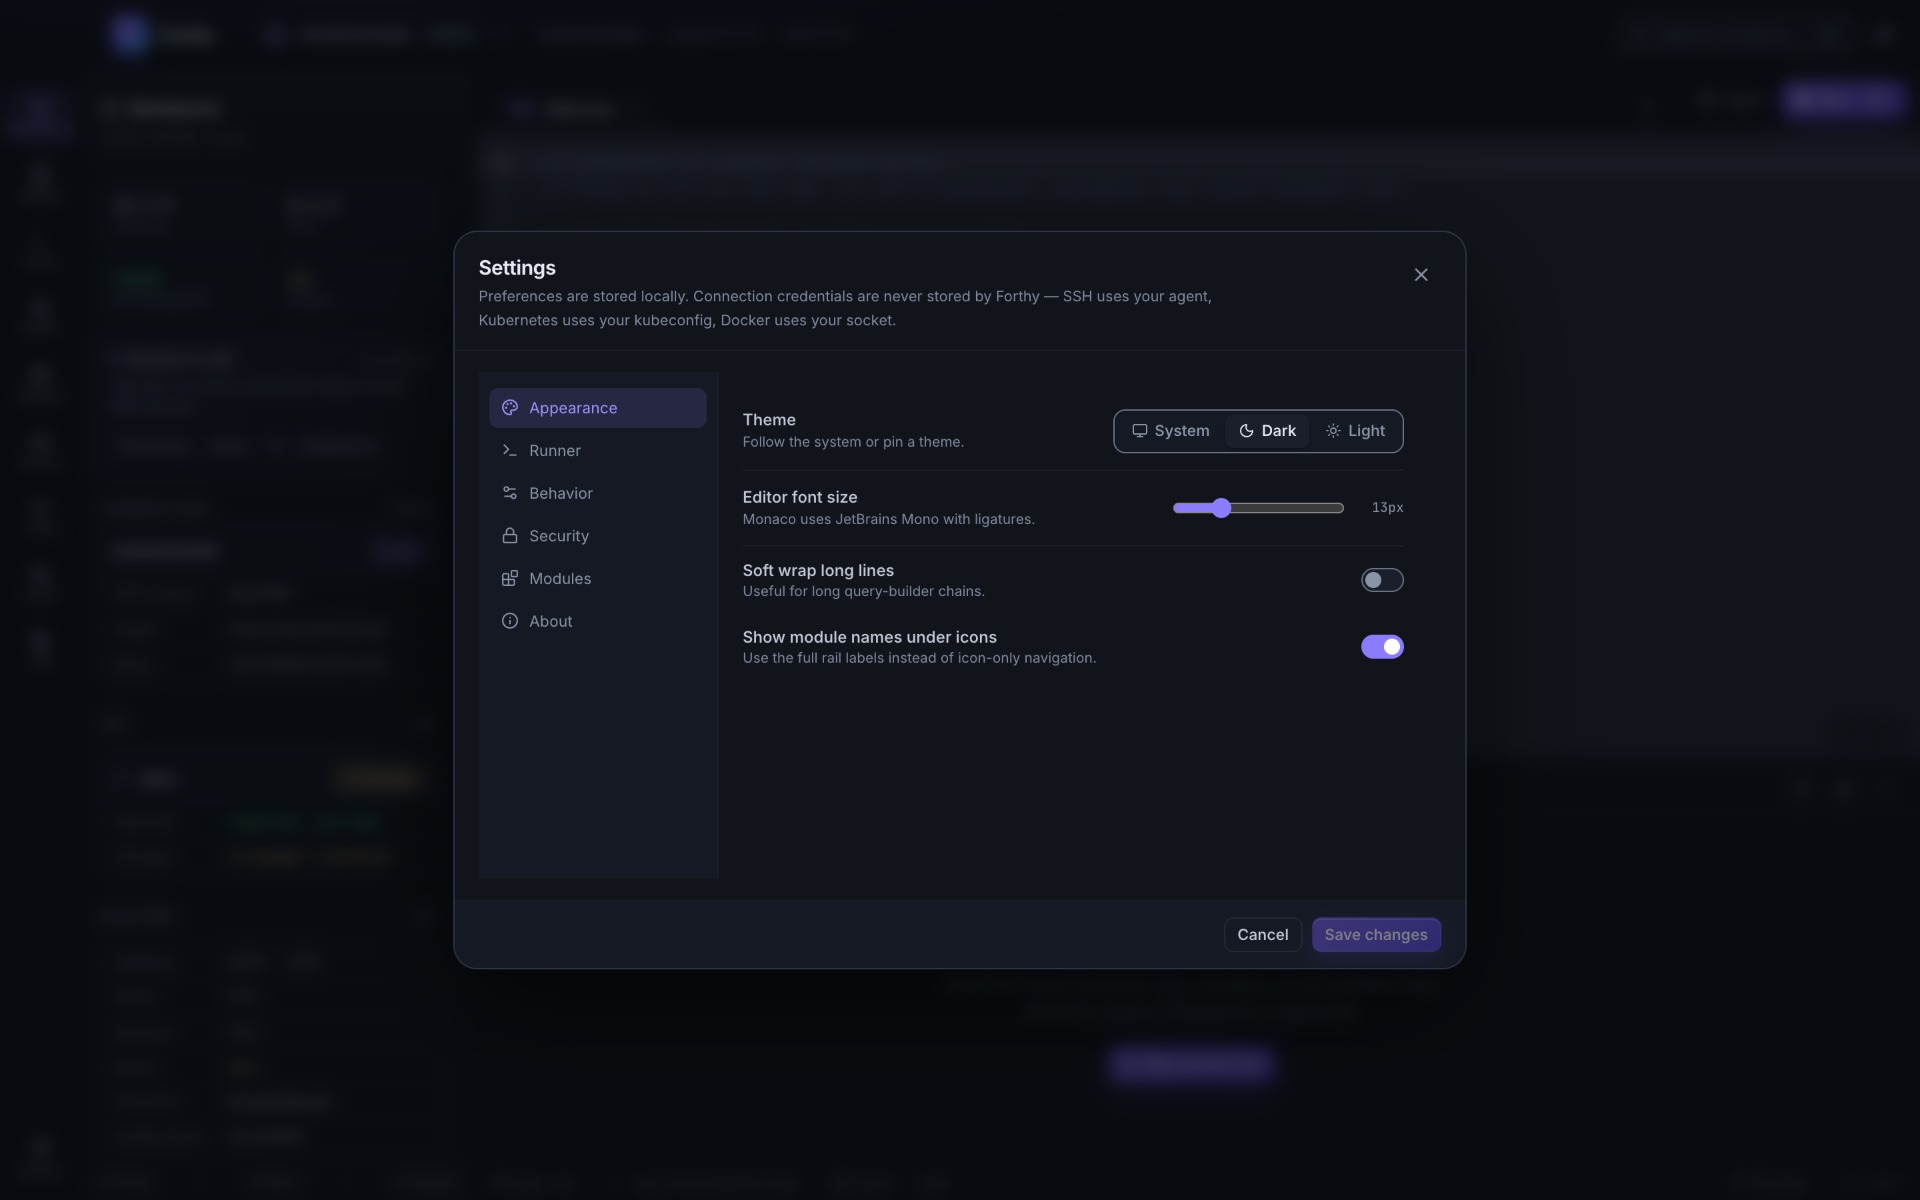
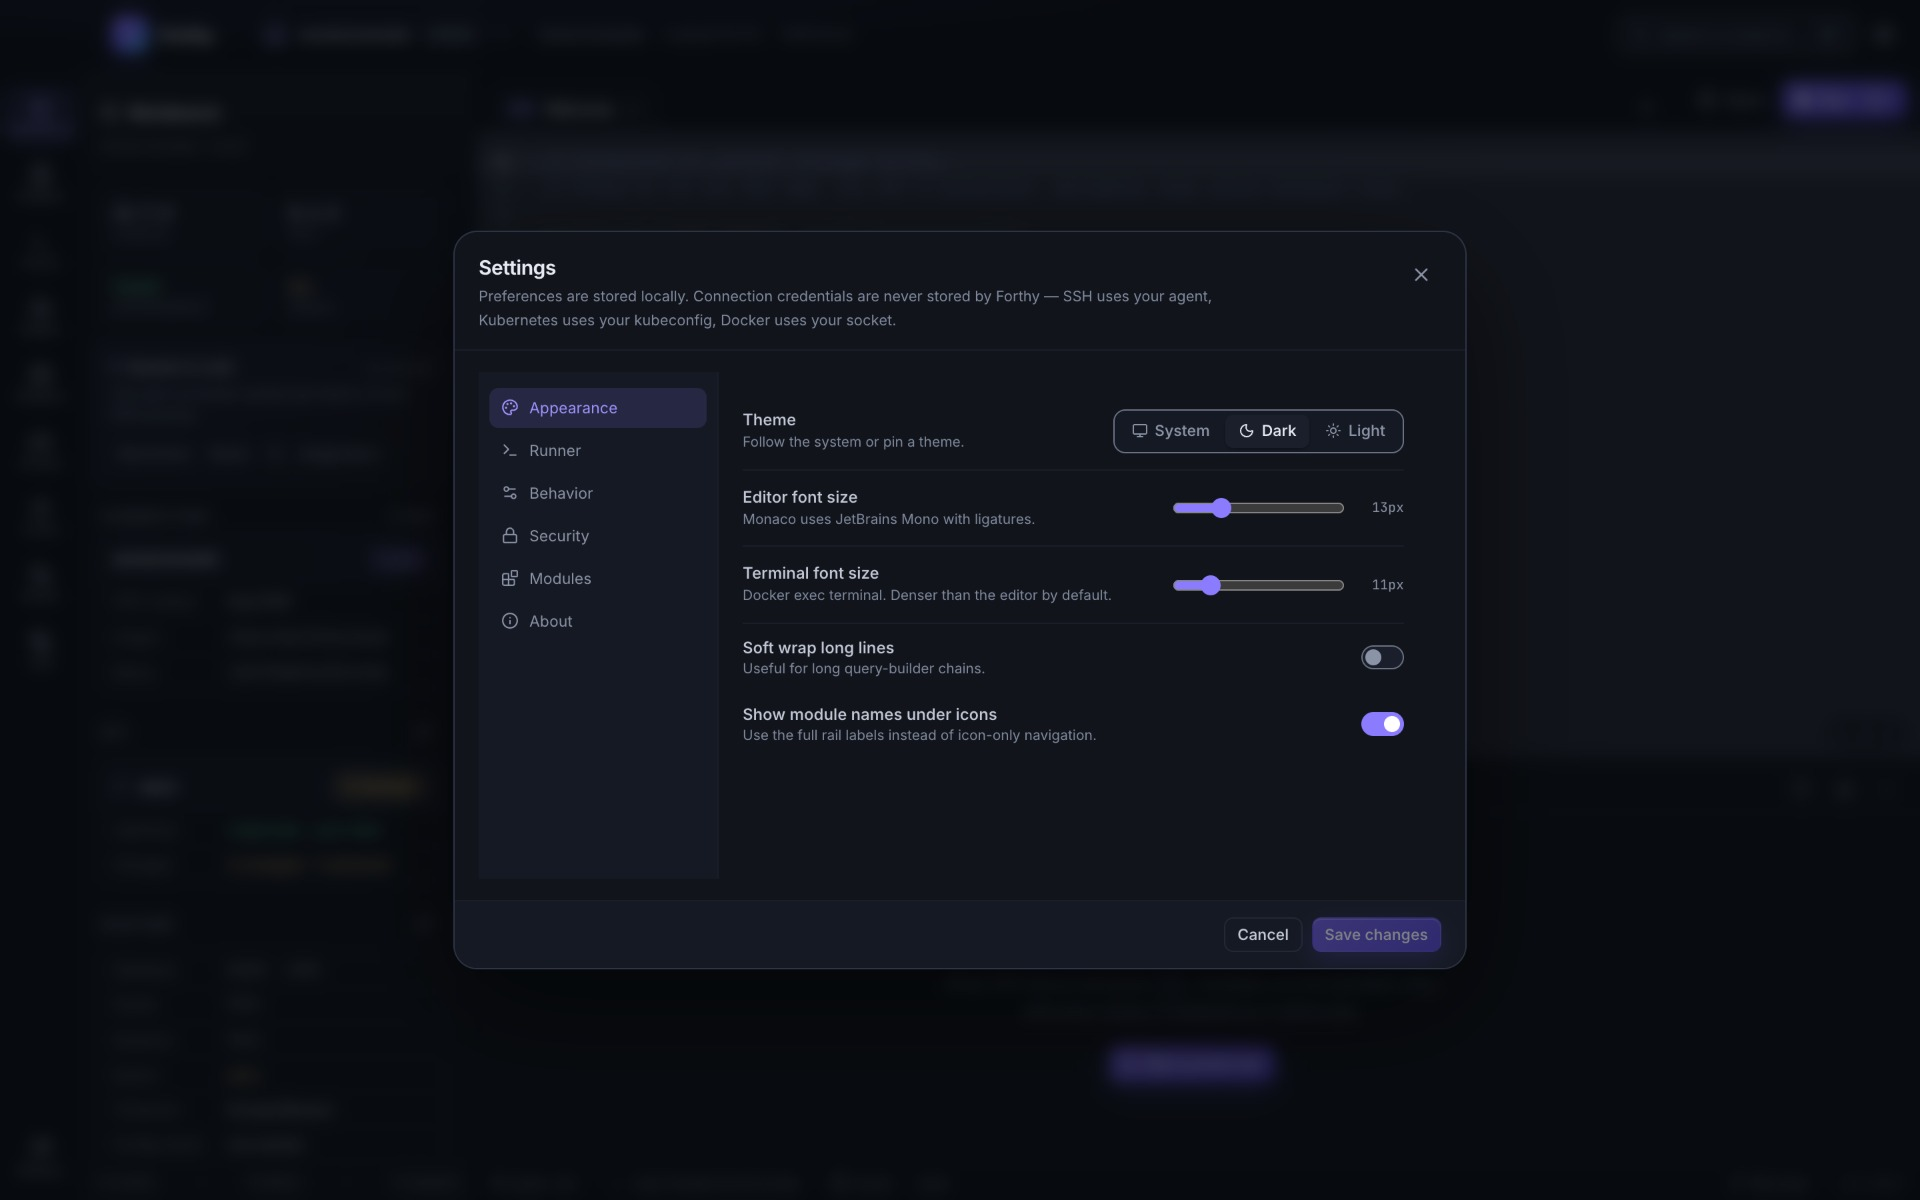
docs: release 0.14.1
Docker container dropdown in the Local and SSH dialogs, reliable custom log path removal, terminal font size setting and a denser default; refresh the settings screenshot and the site version.

diff --git a/site/index.html b/site/index.html
@@ -14,7 +14,7 @@
 
     <link rel="icon" href="favicon.svg" type="image/svg+xml" />
     <link rel="apple-touch-icon" href="apple-touch-icon.png" />
-    <link rel="stylesheet" href="styles.css?v=0.14.0" />
+    <link rel="stylesheet" href="styles.css?v=0.14.1" />
 
     <meta property="og:type" content="website" />
     <meta property="og:site_name" content="Forthy" />
@@ -36,7 +36,7 @@
     />
     <meta name="twitter:image" content="https://stealthpro.github.io/forthy-app/og.jpg" />
 
-    <script src="site.js?v=0.14.0" defer></script>
+    <script src="site.js?v=0.14.1" defer></script>
   </head>
   <body>
     <a class="skip-link" href="#main">Skip to content</a>
@@ -110,7 +110,7 @@
                 href="https://github.com/stealthpro/forthy-app/releases/latest/download/Forthy-macos-aarch64.zip"
               >
                 Download for macOS
-                <span class="button-note">v<span data-version>0.14.0</span> · arm64</span>
+                <span class="button-note">v<span data-version>0.14.1</span> · arm64</span>
               </a>
               <a class="button button-ghost" href="https://github.com/stealthpro/forthy-app">
                 View on GitHub
@@ -513,7 +513,7 @@
               href="https://github.com/stealthpro/forthy-app/releases/latest/download/Forthy-macos-aarch64.zip"
             >
               Download Forthy
-              <span class="button-note">v<span data-version>0.14.0</span> · Apple Silicon</span>
+              <span class="button-note">v<span data-version>0.14.1</span> · Apple Silicon</span>
             </a>
             <p class="fine-print">
               <a href="https://github.com/stealthpro/forthy-app/releases">All releases</a> ·

diff --git a/README.md b/README.md
@@ -71,18 +71,22 @@ shasum -a 256 -c Forthy-macos-aarch64.zip.sha256
 - **Any target** — local PHP, Docker, SSH (key or password) and Kubernetes pods,
   with contexts, namespaces, pods and containers picked from the cluster's own
   lists; a pod that a rollout replaced is offered again instead of leaving the
-  connection broken.
+  connection broken. The Docker container for a Local or SSH connection is picked
+  from a dropdown fed by that target's own `docker ps -a`, and stays typeable when
+  the daemon cannot be reached.
 - **Docker containers** — when the project runs inside a container (a Docker connection,
   or SSH with a container), a Docker module lists that runtime's containers with ports,
   status and Compose labels. A read-only info modal shows image, command, mounts, working
   directory and lifetime; **Logs** opens a follower tab; **Exec** opens a real interactive
   shell in a tab (`docker exec -it` through a PTY, so Ctrl+C, colours, `less`, arrow-key
   history and typing in any keyboard layout work), and open tabs stay alive while you
-  switch around.
+  switch around. The shell starts at a compact 11 px with tight line spacing, and
+  **Settings → Appearance → Terminal font size** resizes it live.
 - **Locks** — optionally ask macOS to authenticate with Touch ID or the Mac account
   password before the app opens or before a chosen project does. Locked connections stay
   marked, and Forthy stores only a flag — never a password.
-- **Themes** — dark, light or follow the system.
+- **Themes** — dark, light or follow the system; editor and terminal font sizes are
+  adjustable in Appearance.
 - **Updates** — checks the public release feed once an hour, then downloads and installs
   a new version only after you confirm it. Every archive is signature-checked first, and
   **Check for Updates…** in the application menu runs the same check on demand. The restart

diff --git a/CHANGELOG.md b/CHANGELOG.md
@@ -1,5 +1,22 @@
 # Changelog
 
+## 0.14.1 — 2026-11-25
+
+A small usability release: container selection, log paths and the exec terminal.
+
+- **Pick the Docker container from a list** — the Local and SSH connection dialogs now
+  offer the target's containers in a dropdown: the local Docker daemon, or the server's
+  daemon over ssh when PHP runs in a container there. Options show the image, state and
+  Compose service; the field stays typeable when the daemon or server cannot be listed,
+  and picking a local container still detects the project path inside it.
+- **Custom log paths can always be removed** — the remove action deletes exactly the
+  saved entry, so a relative path typed by hand no longer stays in the connection behind
+  a false "removed" message. A custom path that points at a file a channel already lists
+  stays visible with a note instead of disappearing, so it too can be removed.
+- **The exec terminal is denser and adjustable** — it starts at 11 px with tighter line
+  spacing, and **Settings → Appearance → Terminal font size** (9–20 px) changes it for
+  open shells without restarting them.
+
 ## 0.14.0 — 2026-11-25
 
 A security release: the local library and exported connection files are now encrypted.
